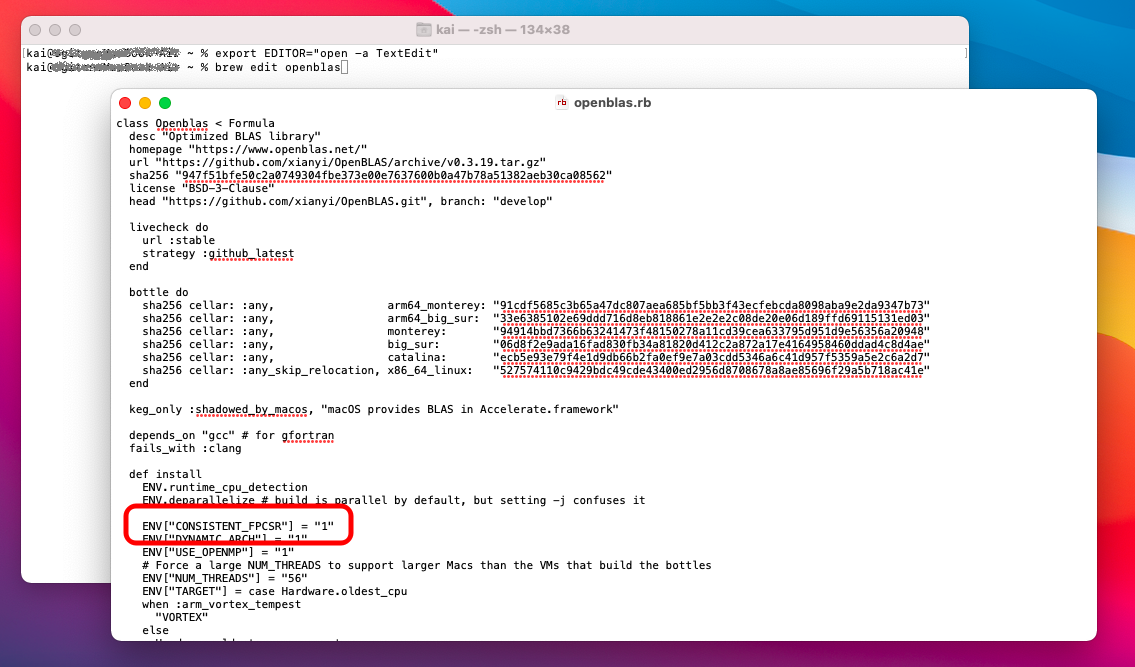
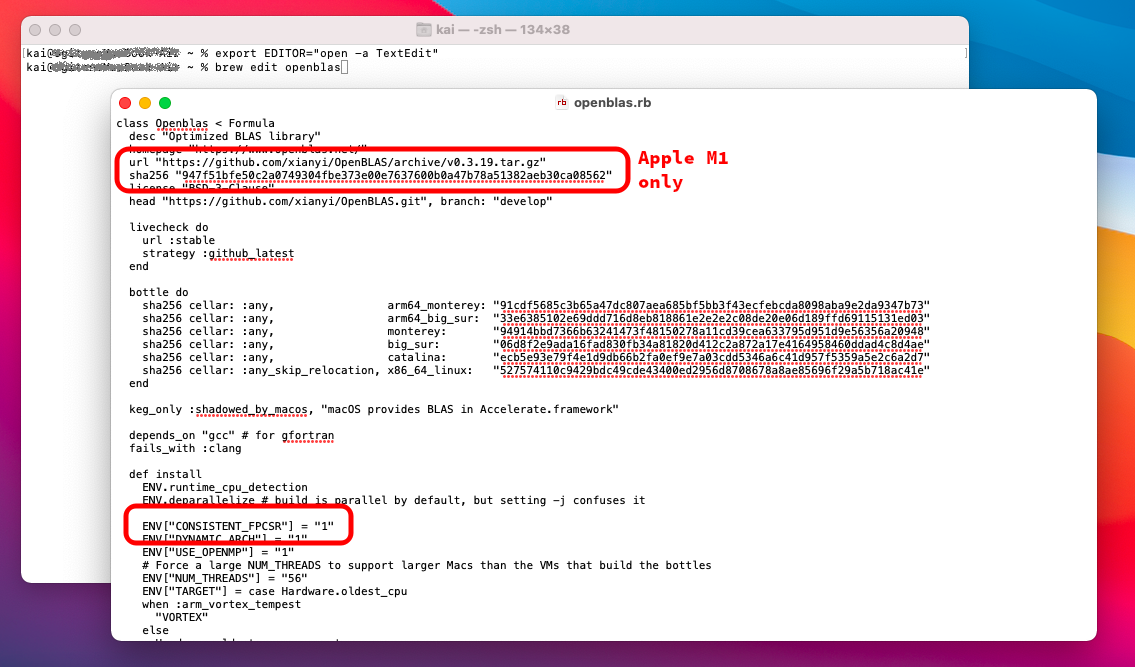
_posts/2021-12-23-octave-matlab-directed-rounding.md: update for Apple M1 chip

Changed region(s): [[0.0925, 0.2099, 0.6476, 0.2999]]

diff --git a/_posts/2021-12-23-octave-matlab-directed-rounding.md b/_posts/2021-12-23-octave-matlab-directed-rounding.md
@@ -2,6 +2,7 @@
 layout: post
 title:  "Using directed rounding in Octave/Matlab"
 date:   2021-12-23
+modified_date: 2022-01-18
 image: /assets/blog/2021-12-23_mswin_octave_blas_small.png
 categories: blog
 tags:
@@ -355,6 +356,17 @@ ENV["CONSISTENT_FPCSR"] = "1"
 like in the screenshot below:
 
 [![macos_openblas](/assets/blog/2021-12-23_macos_openblas.png)](/assets/blog/2021-12-23_macos_openblas.png)
+
+> If you use a modern MacBook with **Apple M1 chip**,
+> you have to either
+> [patch the OpenBLAS](/assets/blog/2021/openblas-0.3.19-apple-m1.patch)
+> source code,
+> or change another two lines like in the screenshot above as follows:
+>
+> ```
+> url "https://github.com/siko1056/OpenBLAS/archive/refs/tags/v0.3.19-m1.tar.gz"
[1 lines of base64/hex data omitted]
+> ```
 
 Finally run from the Terminal:
 ```
